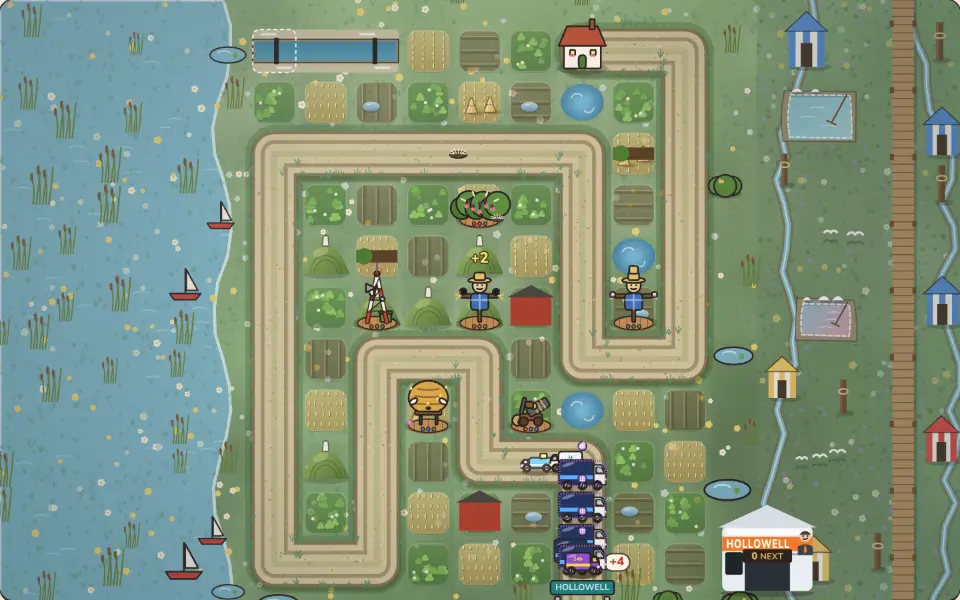
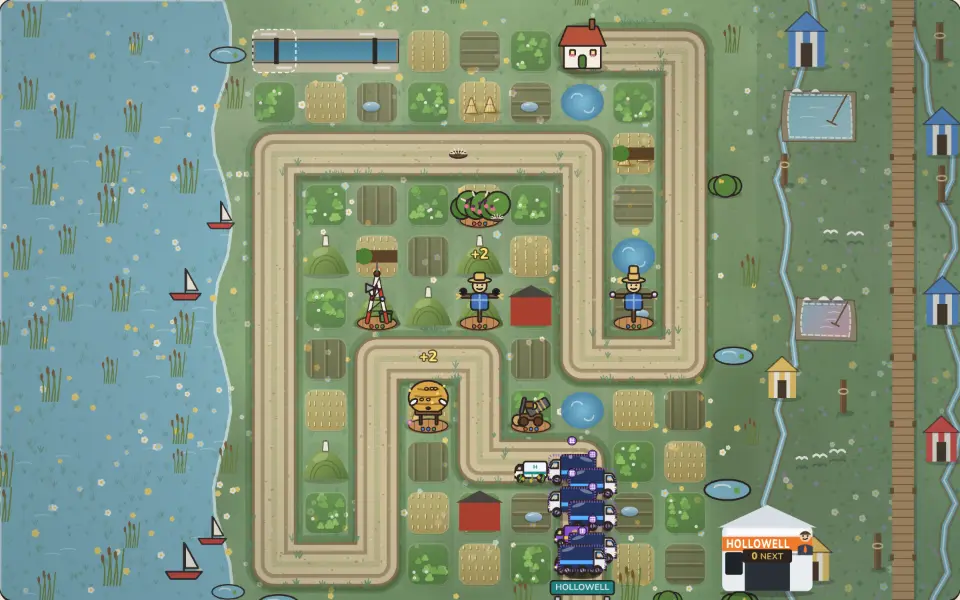
Hedgerow item 224: Bea's crayon over one of Hollowell's adverts on a won level
Claude-Session: https://claude.ai/code/session_01SimvMN1RHBGCWN7Eo7MzhN

diff --git a/games/hedgerow/src/theme.ts b/games/hedgerow/src/theme.ts
@@ -263,6 +263,9 @@ export function paintBackground(
 ): void {
   const theme = themeFor(level);
   const rand = rng(level.id * 7919 + 17);
+  // Plan item 224: Bea's crayon on one advert of a level you've won (the first billboard painted; none if none is).
+  crayonNextBillboard(isWonLevel(level.id));
+  lastCrayon = null;
   const s = L.cell;
   const W = L.width;
   const H = L.height;
@@ -1162,6 +1165,74 @@ function shadow(ctx: CanvasRenderingContext2D, x: number, y: number, w: number, 
   ctx.fill();
 }
 
+/**
+ * Plan item 224: on a level you've won, Bea has been at one of Hollowell's adverts with her crayons: the slogan
+ * struck out in green wax, a sun in the corner and a flower drawn over the face. The next billboard drawn gets it
+ * (paintBackground arms it for a won level; the 3D field arms it for its first board).
+ */
+let crayonNext = false;
+/** The panel Bea last drew on (tests), cleared when a field is painted without one. */
+export let lastCrayon: { x: number; y: number; w: number; h: number } | null = null;
+export function crayonNextBillboard(on: boolean): void {
+  crayonNext = on;
+}
+/** Which levels count as won (main.ts sets it from the save). */
+let wonLevel: (id: number) => boolean = () => false;
+export function setWonLevels(fn: (id: number) => boolean): void {
+  wonLevel = fn;
+}
+export function isWonLevel(id: number): boolean {
+  return wonLevel(id);
+}
+function beaCrayon(ctx: CanvasRenderingContext2D, left: number, top: number, pw: number, ph: number, fs: number): void {
+  lastCrayon = { x: left, y: top, w: pw, h: ph };
+  let seed = Math.floor(left * 13 + top * 7) | 1;
+  const j = () => {
+    seed = (seed * 16807) % 2147483647;
+    return (seed / 2147483647 - 0.5) * fs * 0.18;
+  };
+  ctx.save();
+  ctx.lineCap = "round";
+  ctx.lineJoin = "round";
+  // wax: each stroke twice, the second thinner and a touch off, so it reads as crayon, not a vector line
+  const wax = (colour: string, w: number, pts: Array<[number, number]>) => {
+    for (const [k, a] of [[1, 0.9], [0.55, 0.75]] as const) {
+      ctx.strokeStyle = colour;
+      ctx.globalAlpha = a;
+      ctx.lineWidth = w * k;
+      ctx.beginPath();
+      pts.forEach(([x, y], i) => (i ? ctx.lineTo(x + j(), y + j()) : ctx.moveTo(x + j(), y + j())));
+      ctx.stroke();
+    }
+  };
+  const w = Math.max(2, fs * 0.22);
+  const tx = left + fs * 0.55 + fs * 2.3;
+  const tr = left + pw - fs * 0.3;
+  // the slogan struck through, back and forth
+  wax("#5fbf3a", w, [[tx - fs * 0.1, top + ph * 0.28], [tr, top + ph * 0.36], [tx, top + ph * 0.5], [tr + fs * 0.1, top + ph * 0.6]]);
+  // a flower over the face: five petals and a middle
+  const fx = left + fs * 0.35 + fs * 1.15;
+  const fy = top + ph * 0.46;
+  const pr = fs * 0.42;
+  for (let k = 0; k < 5; k++) {
+    const a = (k / 5) * Math.PI * 2 - Math.PI / 2;
+    const cx = fx + Math.cos(a) * pr;
+    const cy = fy + Math.sin(a) * pr;
+    wax("#ff6fa8", w * 0.9, [[cx - pr * 0.35, cy], [cx, cy - pr * 0.35], [cx + pr * 0.35, cy], [cx, cy + pr * 0.35], [cx - pr * 0.35, cy]]);
+  }
+  wax("#ffd23a", w, [[fx - pr * 0.2, fy], [fx + pr * 0.2, fy + pr * 0.05]]);
+  wax("#5fbf3a", w * 0.8, [[fx, fy + pr * 1.2], [fx + pr * 0.1, top + ph + fs * 0.2]]);
+  // a sun peeping over the panel's top corner
+  const sx = left + pw - fs * 0.2;
+  const sy = top + fs * 0.1;
+  wax("#ffb21a", w, Array.from({ length: 10 }, (_, k): [number, number] => [sx + Math.cos((k / 9) * Math.PI * 2) * fs * 0.33, sy + Math.sin((k / 9) * Math.PI * 2) * fs * 0.33]));
+  for (let k = 0; k < 6; k++) {
+    const a = (k / 6) * Math.PI * 2;
+    wax("#ffb21a", w * 0.7, [[sx + Math.cos(a) * fs * 0.55, sy + Math.sin(a) * fs * 0.55], [sx + Math.cos(a) * fs * 0.85, sy + Math.sin(a) * fs * 0.85]]);
+  }
+  ctx.restore();
+}
+
 export function drawDecor(
   ctx: CanvasRenderingContext2D,
   kind: Decor,
@@ -1526,6 +1597,10 @@ export function drawDecor(
       const tx = left + fs * 0.55 + fw;
       ctx.fillText(ad.lines[0], tx, top + ph * 0.3);
       ctx.fillText(ad.lines[1], tx, top + ph * 0.62);
+      if (crayonNext) {
+        crayonNext = false;
+        beaCrayon(ctx, left, top, pw, ph, fs);
+      }
       ctx.strokeStyle = INK;
       ctx.lineWidth = lw;
       break;

diff --git a/e2e-site/hedgerow-crayon.spec.ts b/e2e-site/hedgerow-crayon.spec.ts
@@ -1,0 +1,39 @@
+import { expect, test, type Page } from '@playwright/test'
+
+// Plan item 224: on a level you've won, Bea has been at one of Hollowell's adverts with her crayons. Level 75 (the
+// Ballot) has billboards in its margin; it shows the crayon once won, and not before.
+type Box = { x: number; y: number; w: number; h: number }
+type Hg = { game(): unknown; crayon(): Box | null; margin2d(): { pieces: Array<{ kind: string }> } | null }
+
+async function open(page: Page, won: boolean): Promise<void> {
+  const stars = Object.fromEntries(Array.from({ length: won ? 75 : 74 }, (_, i) => [String(i + 1), 3]))
+  const tips = { build: true, hero: true, early: true, pie: true, spec: true, neighbours: true, rally: true }
+  await page.goto('/hedgerow/?sandbox=1&2d')
+  await page.evaluate(([s, t]) => localStorage.setItem('hedgerow:v1', JSON.stringify({ version: 3, stars: s, seenBefore: { 75: true }, tips: t })), [stars, tips] as const)
+  await page.goto('/hedgerow/?sandbox=1&2d&level=75')
+  await page.waitForFunction(() => !!(window as unknown as { hedgerow?: Hg }).hedgerow?.game(), null, { timeout: 60_000 })
+}
+
+const hg = (page: Page) => page.evaluate(() => {
+  const h = (window as unknown as { hedgerow: Hg }).hedgerow
+  return { crayon: h.crayon(), boards: h.margin2d()?.pieces.filter((p) => p.kind === 'billboard').length ?? 0 }
+})
+
+test('a won level: Bea has crayoned one advert, inside the field', async ({ page }) => {
+  test.setTimeout(90_000)
+  await open(page, true)
+  await page.waitForTimeout(1000)
+  const { crayon, boards } = await hg(page)
+  if (!boards) return // the phone's field has no room for the Ballot's boards
+  expect(crayon).not.toBeNull()
+  const canvas = (await page.locator('canvas').first().boundingBox())!
+  expect(crayon!.x).toBeGreaterThanOrEqual(0)
+  expect(crayon!.x + crayon!.w).toBeLessThanOrEqual(canvas.width)
+})
+
+test('a level not yet won: no crayon on its adverts', async ({ page }) => {
+  test.setTimeout(90_000)
+  await open(page, false)
+  await page.waitForTimeout(1000)
+  expect((await hg(page)).crayon).toBeNull()
+})

diff --git a/games/hedgerow/src/main.ts b/games/hedgerow/src/main.ts
@@ -201,7 +201,7 @@ import { leakDebrief } from "./debrief";
 import { cheer, panic } from "./farmfolk";
 import { ringLayout } from "./buildring";
 import { depotSvg, entrySide, nearSides, repMood, repSvg, type RepMood } from "./depot";
-import { gateSignRect } from "./theme";
+import { gateSignRect, lastCrayon, setWonLevels } from "./theme";
 import { KITS } from "./hero";
 import { OUTFITS, isUnlocked as outfitUnlocked, outfitFor, shareOutfit, wear, wornOutfit } from "./wardrobe";
 import { actScene, renderMap } from "./map";
@@ -361,6 +361,8 @@ const art = () => wornOutfit().art;
 const cath = (expression: CathExpression) => cathSvg({ framing: "face", expression, animate: true, outfit: art() });
 
 const data = load();
+// Plan item 224: a won level's field shows Bea's crayon on one of Hollowell's adverts.
+setWonLevels((id) => (data.stars[String(id)] ?? 0) > 0);
 // Tower XP arrives with Hedgerow 2 M10: a save that already has progress opens every tier 3 (1,500 XP a kind).
 if (!data.xp && Object.keys(data.stars).length) {
   data.xp = {};
@@ -750,6 +752,8 @@ if (SANDBOX)
     cellCenter: (c: number, r: number) => renderer?.cellCenter(c, r) ?? null,
     // Plan item 202: what the 2D field painted in its margins (the act's set and its pieces).
     margin2d: () => lastMargin,
+    // Plan item 224: the advert Bea crayoned on this field (2D canvas px), or null.
+    crayon: () => lastCrayon,
     // Plan item 66: the share of the 3D frame's height that is painted sky (null in 2D).
     skyBand: () => (renderer && is3D(renderer) ? renderer.skyBand() : null),
     fieldShare: () => (renderer && is3D(renderer) ? renderer.fieldShare() : null),

diff --git a/games/hedgerow/src/render.ts b/games/hedgerow/src/render.ts
@@ -33,7 +33,7 @@ import {
   type Level,
 } from "./engine";
 import { cathSvg } from "../../../shared/cath/cath";
-import { paintBackground, rng, themeFor } from "./theme";
+import { crayonNextBillboard, isWonLevel, paintBackground, rng, themeFor } from "./theme";
 import { LIVE_PIECES, drawMarginLife, lastMargin, type Placed } from "./margins";
 import { cropOf, occupiedPlots, ripeCount, shownCrops } from "./growth";
 import { drawCrop } from "./cropart";
@@ -707,7 +707,7 @@ export class Renderer {
     const Y = (v: number) => offY + v * s;
 
     // The painted field, cached.
-    const key = `${level.id}:${W}x${H}:${s}:${this.dpr}`;
+    const key = `${level.id}:${W}x${H}:${s}:${this.dpr}:${isWonLevel(level.id) ? "won" : ""}`;
     if (key !== this.bgKey) {
       this.bg = document.createElement("canvas");
       this.bg.width = this.canvas.width;
@@ -715,6 +715,7 @@ export class Renderer {
       const bctx = this.bg.getContext("2d")!;
       bctx.setTransform(this.dpr, 0, 0, this.dpr, 0, 0);
       paintBackground(bctx, level, { width: W, height: H, cell: s, offX, offY });
+      crayonNextBillboard(false);
       this.marginPieces = (lastMargin?.pieces ?? []).filter((p) => LIVE_PIECES.has(p.kind));
       this.bgKey = key;
     }

diff --git a/games/hedgerow/src/render3d/terrain.ts b/games/hedgerow/src/render3d/terrain.ts
@@ -7,7 +7,7 @@ import * as THREE from "three";
 import { hasTwist, isProtected, laneCellsOf, landmarks, plotKind, sceneryCells, type Level } from "../engine";
 import { twistDressing } from "../landmarks";
 import { plotLooks, type PlotLook } from "../plotlook";
-import { drawDecor, rng } from "../theme";
+import { crayonNextBillboard, drawDecor, isWonLevel, rng } from "../theme";
 import { actLight } from "./palette";
 import {
   buildBoat,
@@ -1641,7 +1641,10 @@ function addAdverts(group: THREE.Group, level: Level, cols: number, rows: number
     const ctx = c.getContext("2d");
     if (!ctx) return;
     const pick = (k++ + 0.5) / 4;
+    // Bea's crayon on the first board of a level you've won.
+    crayonNextBillboard(k === 1 && isWonLevel(level.id));
     drawDecor(ctx, "billboard", W / 2, H - 2, 120, () => pick);
+    crayonNextBillboard(false);
     const tex = new THREE.CanvasTexture(c);
     tex.colorSpace = THREE.SRGBColorSpace;
     tex.anisotropy = 4;

diff --git a/docs/plan/two-week-plan.md b/docs/plan/two-week-plan.md
@@ -2426,7 +2426,7 @@ The items come from fresh-eyes audits on 2026-11-01 and 2026-11-02 (items 25-32:
 - **Accept:** at 1440x900 and 1280x800 her projected box lies inside x 470-960, 500 px or more tall, not touching the sheet; cycling all five classes keeps her there; cathode-front, -classpick, -classstage pass; shots D and P (P unchanged).
 - **Size:** 2
 
-## 224. [ ] Hedgerow: Hollowell's billboards carry real adverts *(lane B, in progress)* *(slice 1, 2026-11-06 23:35 lane B: the 'billboards' in the l21 shot are Saltmarsh's margin salt pans (margins.ts), whose white rim, divider and heap read as an image icon; redrawn as pans dug into the marsh: an uneven mud bank, brine with ripples and a crust, salt heaps on the bank and a rake. Slice 2: Hollowell's billboards (theme.ts `billboard`) are glossy slate panels on posts with an orange stripe, a face (Pell's grin, a crate of kit, a QR code, the ballot tick) and a 12 px bold slogan (VOTE PELL, KIT 0.99, SCAN & SAVE, FRESHER THAN FRESH™), sized to the slogan; the scatter keeps a whole panel off the field, and the Ballot's and the Merger's margin sets carry them (2.3 cells wide); margins unit test. Left: the 3D field's adverts and Bea's crayon over one on a won level)* *(slice 3, 2026-11-07 00:50 lane B: the 3D Ballot and Merger stand three advert boards on the side verges (`addAdverts` in render3d/terrain.ts), each textured by the 2D billboard painter with a different face; at D the left board reads about 90 px, the right one can fall past the frame's edge. Left: frame both sides' boards inside the fitted view, and Bea's crayon on a won level)*
+## 224. [ ] Hedgerow: Hollowell's billboards carry real adverts *(lane B, in progress)* *(slice 1, 2026-11-06 23:35 lane B: the 'billboards' in the l21 shot are Saltmarsh's margin salt pans (margins.ts), whose white rim, divider and heap read as an image icon; redrawn as pans dug into the marsh: an uneven mud bank, brine with ripples and a crust, salt heaps on the bank and a rake. Slice 2: Hollowell's billboards (theme.ts `billboard`) are glossy slate panels on posts with an orange stripe, a face (Pell's grin, a crate of kit, a QR code, the ballot tick) and a 12 px bold slogan (VOTE PELL, KIT 0.99, SCAN & SAVE, FRESHER THAN FRESH™), sized to the slogan; the scatter keeps a whole panel off the field, and the Ballot's and the Merger's margin sets carry them (2.3 cells wide); margins unit test. Left: the 3D field's adverts and Bea's crayon over one on a won level)* *(slice 3, 2026-11-07 00:50 lane B: the 3D Ballot and Merger stand three advert boards on the side verges (`addAdverts` in render3d/terrain.ts), each textured by the 2D billboard painter with a different face; at D the left board reads about 90 px, the right one can fall past the frame's edge. Left: frame both sides' boards inside the fitted view, and Bea's crayon on a won level)* *(slice 4, 2026-11-07 16:30 lane B: on a level you've won Bea has crayoned one of Hollowell's adverts (the first billboard painted, 2D and the 3D field's first board): the slogan struck out in green wax, a pink flower over the face, a sun over the corner (`beaCrayon` in theme.ts, two-pass wax strokes; `setWonLevels` from the save; the 2D cache keys on it); `hedgerow-crayon.spec` (l75 won: crayon inside the field; not won: none); key art re-shot; shots scratchpad bb-D-new/won, bb3-won. Left: frame both sides' 3D boards inside the fitted view)*
 - **Why:** `plan1106h/hedge-l21-2d-D` (885-995 x 100-160, 885-980 x 330-395, 905-980 x 650-705): the billboards are a ruled two-pane glyph with a white hill, read as placeholder image icons, missing VISION's glossy-corporate joke.
 - **Build:** three or four advert faces per act in Hollowell's acrylic style (Pell's grin, a slogan such as "Fresher Than Fresh™" or "Farm kit 0.99", the act's brand, a fake QR), drawn on the 2D canvas and used as the 3D textures; a won level gets Bea's crayon over one advert.
 - **Accept:** no billboard draws the old glyph; slogans 12 px or more at 4.5:1 inside the sign at D; three or more distinct faces per act; hedgerow level and field specs pass; shots l21 and l34 at P and D, 2D and 3D.
